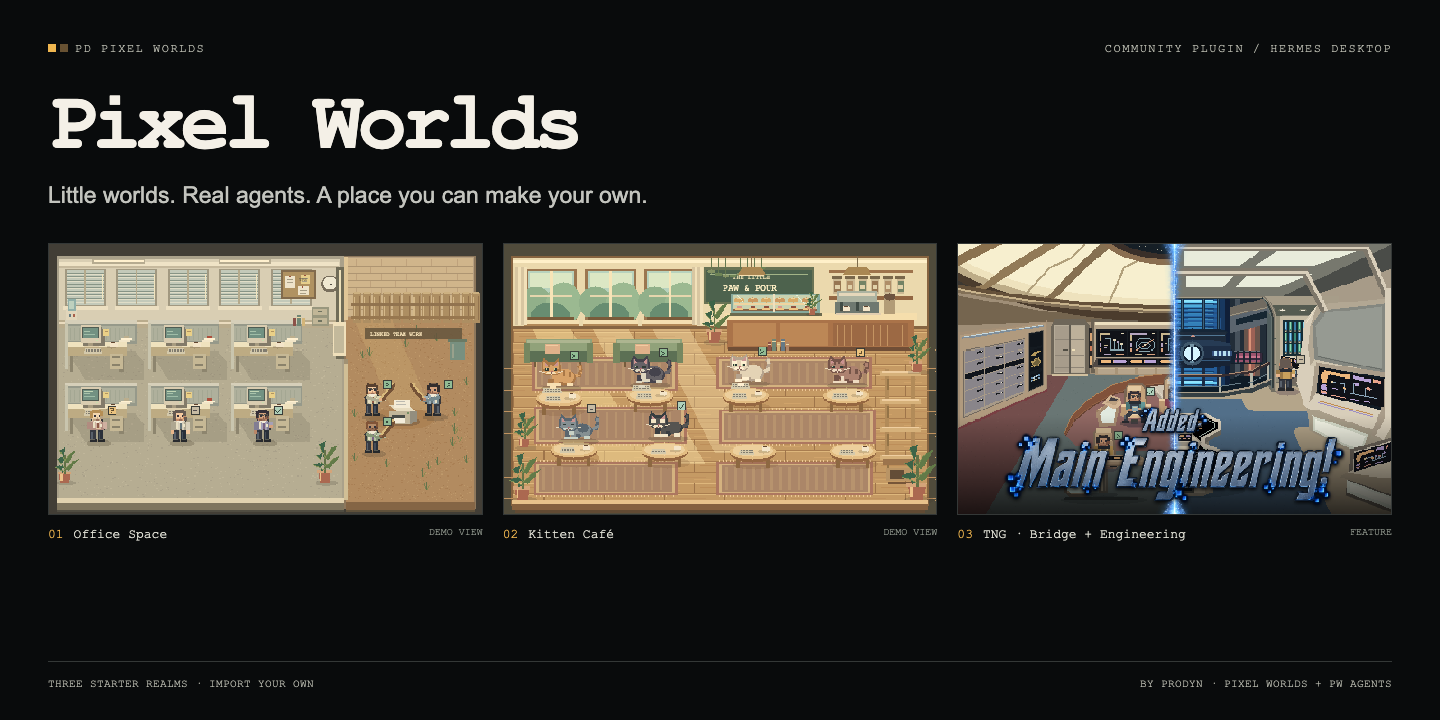
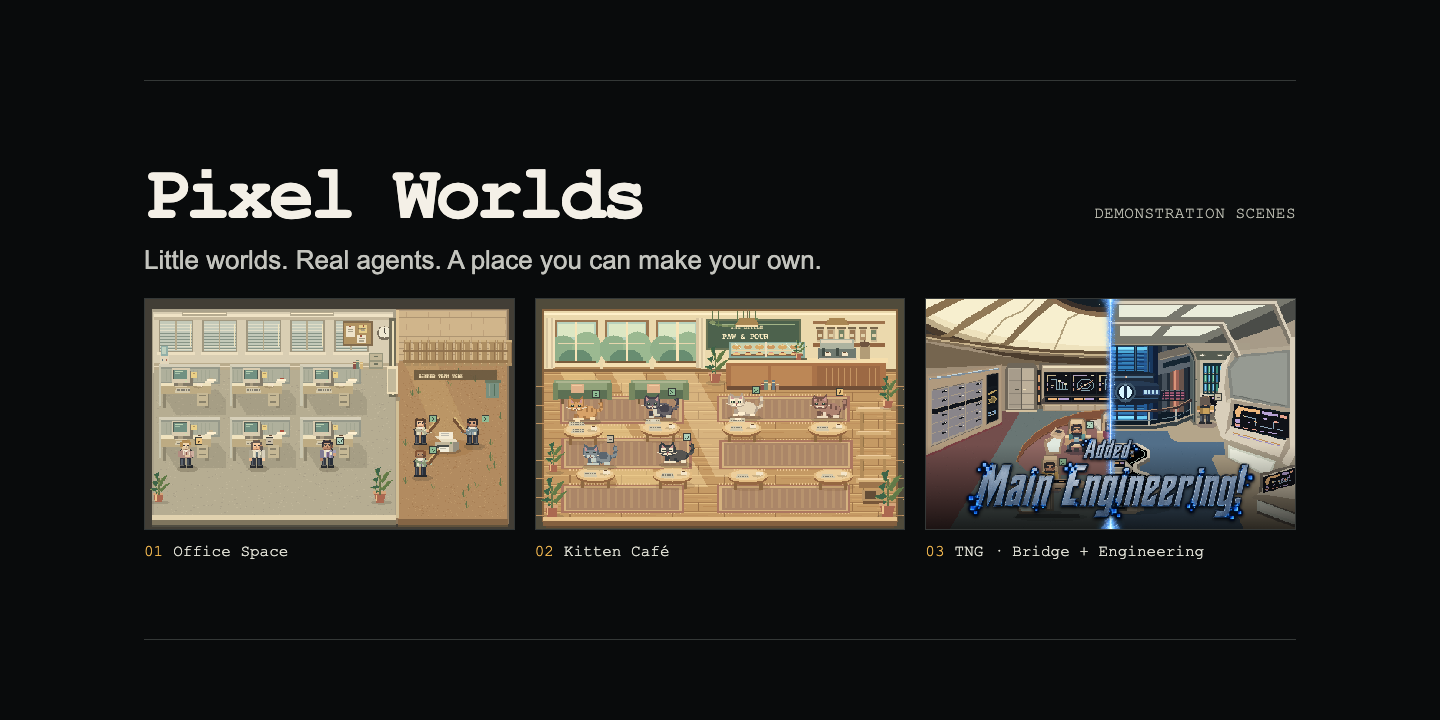
fix(media): keep Pixel Worlds catalog title inside hero crop

diff --git a/docs/media.md b/docs/media.md
@@ -14,7 +14,7 @@ loopback preview. It does not connect to a Hermes gateway or load live sessions.
 ## Outputs
 
 - `images/starter-realms.png`: README hero, 1440 × 720.
-- `images/catalog-banner.png`: catalog graphic, 1440 × 720.
+- `images/catalog-banner.png`: dedicated crop-safe catalog composition, 1440 × 720.
 - `images/social-preview.png`: repository share card, 1280 × 640, under 1 MB.
 - `images/*-scene.png`: full scene artwork, 960 × 600, without interface chrome.
 - `images/tng-ship-feature.png`: promotional 50/50 Bridge–Engineering composite,
@@ -25,6 +25,56 @@ loopback preview. It does not connect to a Hermes gateway or load live sessions.
 The TNG screenshots show the current main-branch candidate. Tagged releases
 may contain earlier art. Imported TNG packages are static bridge scenes; the
 built-in ship also includes Main Engineering.
+
+## Catalog fit and regeneration
+
+The catalog card and plugin detail-page header use the same `image` URL, but
+different frames. The card is 2:1. The current detail header uses `width: 100%`,
+`max-height: 360px` and centered `object-fit: cover`. On a wide page its measured
+image content box is 1134 × 359 (plus a 1px bottom border). A 1440 × 720 source
+therefore retains only approximately y=132–588. Resizing to another 2:1 image
+does not restore the cropped title.
+
+`scripts/compose-catalog-media.mjs` owns the catalog layout separately from the
+README and social layouts. It reads the existing scene captures and TNG
+composite, keeping the title, benefit, demonstration disclosure, scene artwork
+and captions inside the intersection of the card and detail crops, with a 24px
+source-image margin. The current computed safe bounds are approximately
+x=24–1416, y=156–564; the composition uses a narrower central column.
+Decorative lines outside this region may be cropped. Do not copy the full
+README poster back over this export.
+
+To recompose only the catalog image without rebuilding the application or
+changing the other graphics:
+
+```sh
+npm run media:catalog
+npm run test:media
+```
+
+The full capture command above also calls this composer after refreshing its
+scene inputs. `test:media` checks the crop calculation and rejects critical
+content outside the safe area, then renders the actual composition without
+writing an image. No gateway, real sessions or external images are used.
+
+Before approving changed artwork, compare the source with the actual catalog
+card and plugin page at wide, tablet and narrow widths in both themes. Check
+small-card title/detail legibility as well as image bounds. A narrow page's
+horizontal overflow is a separate website defect, not something to hide by
+moving artwork. Remeasure the destination fixtures if upstream CSS changes:
+
+- [Catalog authoring documentation](https://hermes-agent.nousresearch.com/docs/user-guide/features/plugin-catalog#whats-in-an-entry)
+- [Detail-page CSS](https://github.com/NousResearch/hermes-agent/blob/main/website/src/components/PluginCatalog/pages.module.css)
+- [Card CSS](https://github.com/NousResearch/hermes-agent/blob/main/website/src/pages/plugins/styles.module.css)
+
+Gallery thumbnails use a separate 16:10 cover crop. README images preserve
+their source ratio. GitHub's uploaded Social preview is another independent
+destination; neither this composer nor a Git push changes that setting.
+
+Local generation does not update the public listing. After publication
+approval, commit the source and assets, update the catalog's reviewed pin and
+its pinned image URL through the normal review process, then inspect the live
+page again. Do not replace a reviewed image through a mutable branch URL.
 
 ## Treatment and attribution
 
@@ -54,7 +104,8 @@ the beam uses brightness as alpha, with RGB unpremultiplied to preserve glow.
 The main capture script rebuilds the composite automatically. To recomposite
 existing scene captures only, run `node scripts/compose-tng-feature.mjs`.
 
-The script checks browser errors, image dimensions, layout collisions and the
-social-card size. Inspect the generated images before committing them. A file
+The scripts check browser errors, image dimensions, layout collisions,
+catalog critical-content bounds and the social-card size. Inspect the generated
+images before committing them. A file
 in this directory does not change GitHub's uploaded social-preview setting;
 that is a separate repository setting, not an automatic effect of a Git push.
